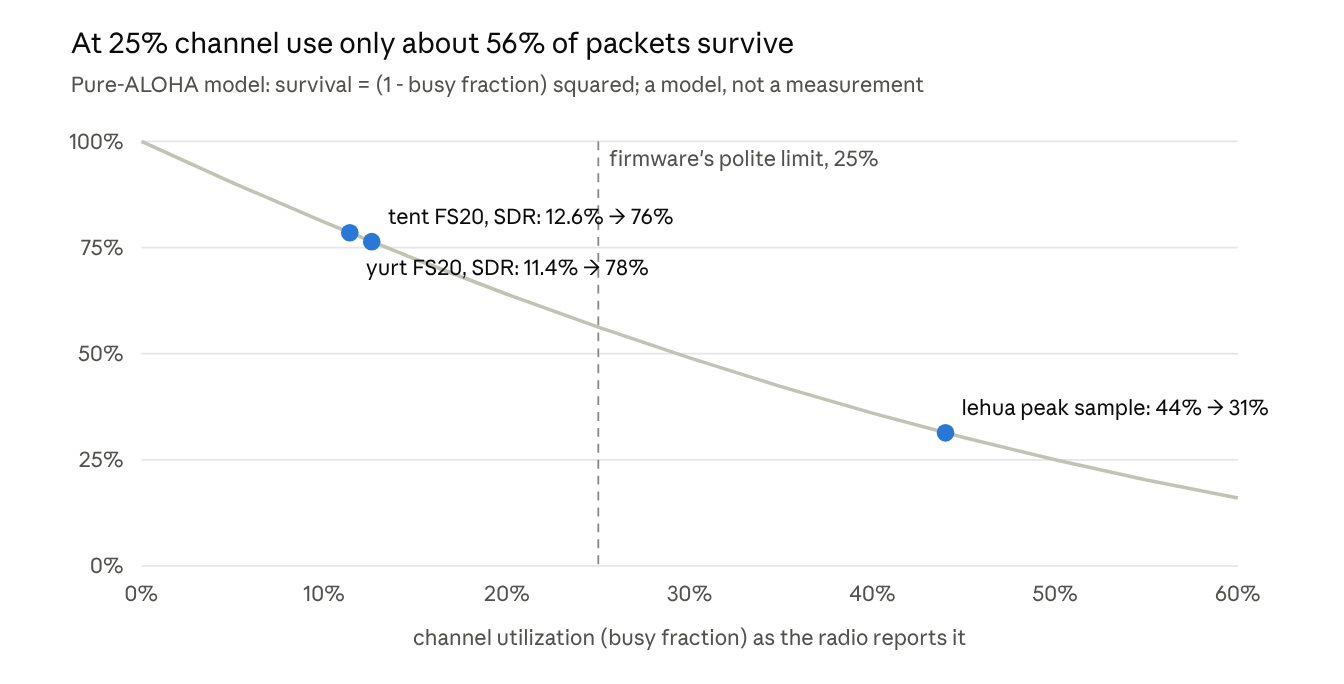
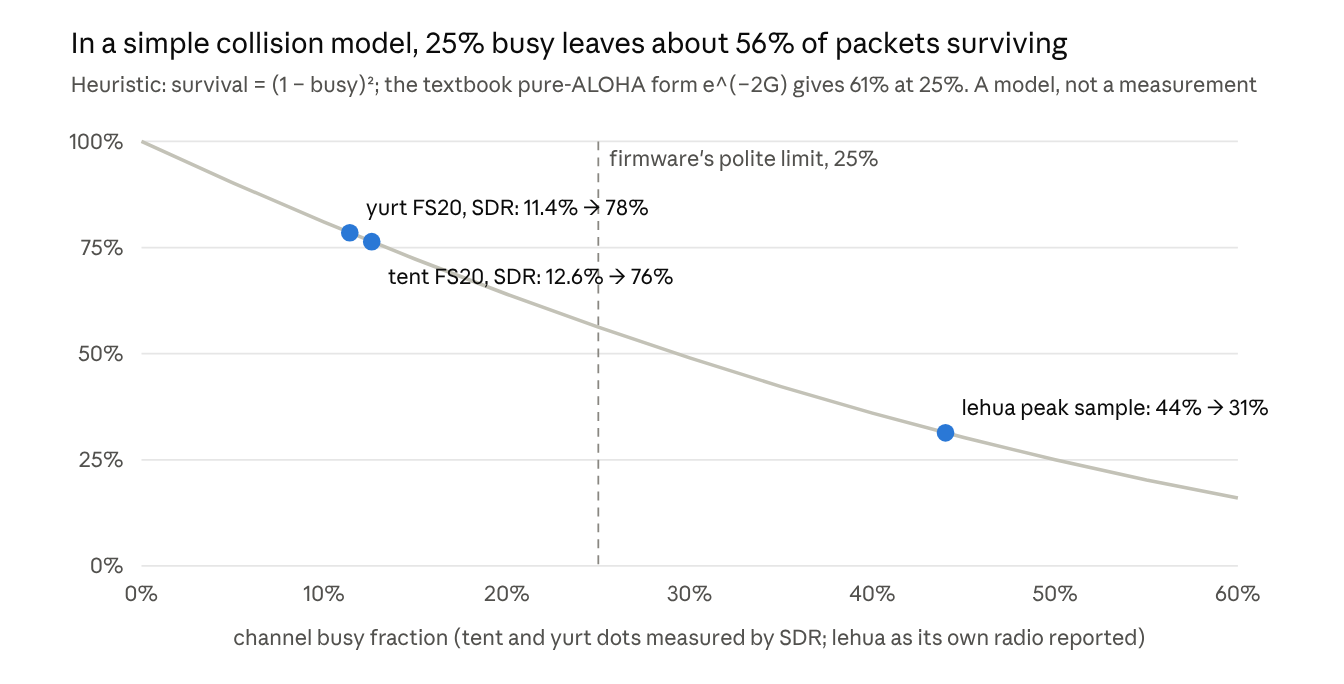
docs(substack): Measuring the Air — honest chart labels, pinned source links
PA chart: "received level at one SDR, not calibrated radiated power",
with which run each point came from. Knee chart: the curve is labelled a
heuristic (e^(-2G) gives 61% at 25%), the x-axis says which dots the SDR
measured, and the tent/yurt labels now sit next to their own dots. Every
GitHub source link is pinned to a commit (each path verified at that
commit; the meshtoad "over-drawing the USB port" and airtime.h
"snapshot" quotes confirmed present).

Claude-Session: https://claude.ai/code/session_01Ukp8mY6RGG5bVQ6PSSXGSq

diff --git a/docs/substack/2026-10-03-measuring-the-air.md b/docs/substack/2026-10-03-measuring-the-air.md
@@ -74,7 +74,7 @@ One difference matters for a crowded rack. Meshtastic's channel check detects on
 
 Meshtastic's firmware draws a line at 25% of airtime: above it, a node stops sending its polite periodic broadcasts. A simple collision model shows why a quarter is a sensible place for that line.
 
-![At 25% channel use only about 56% of packets survive — pure-ALOHA model, survival = (1 − busy fraction)², with the site's measured points: tent FS20 12.6% → 76%, yurt FS20 11.4% → 78%, lehua peak sample 44% → 31%](img/2026-10-03-aloha-knee.png)
+![In a simple collision model, 25% busy leaves about 56% of packets surviving. Heuristic survival = (1 − busy)², a model not a measurement (textbook e^(−2G) gives 61% at 25%). Dots: yurt FS20 11.4% → 78% and tent FS20 12.6% → 76% (SDR-measured), lehua peak sample 44% → 31% (as its radio reported)](img/2026-10-03-aloha-knee.png)
 
 The curve is a simple heuristic in the spirit of pure ALOHA, where nobody coordinates: a packet survives if the channel is free when it starts and stays free for one packet time, so survival is (1 − busy)². The textbook Poisson form, e^(−2G), gives 61% rather than 56% at 25%; either way survival falls steadily with load, and pure ALOHA's throughput peaks at 18.4% of capacity ([ALOHA](https://platform.commit.tu-berlin.de/en/book/telecom/chapter/ch19/section/s04)). LoRa is kinder than pure ALOHA because radios listen first and the capture effect saves the stronger packet. It is harsher when nodes cannot hear each other, as between our yurt and tent. Studies of LoRa at scale reach the same conclusion: success falls exponentially as nodes are added on one spreading factor ([Georgiou and Raza](https://ar5iv.arxiv.org/html/1610.04793), [Adelantado et al.](https://arxiv.org/pdf/1607.08011)).
 
@@ -88,11 +88,11 @@ We cut every Meshtastic radio on site from 30 to 17 dBm except two controls (leh
 
 The first readings said nothing changed. Signal-to-noise between our own radios moved a quarter of a dB (one reporting step); channel load rose on the control box we never touched (time of day). Rather than call that "no effect", we went to direct physics: an SDR in the same tent, listening while one radio stepped through its settings and sent marked test packets we could pick out by their exact airtime.
 
-![Radiated power is flat from 12 to 30 dBm; 7 dBm cuts it about 11 dB — VolcanoAI's HAT, change vs setting 17 at a nearby SDR: set 30 (chip 22) +0.4 dB, set 17 0 dB, set 12 −1.5 dB, set 7 −11.4 dB, against a dashed line showing a linear amplifier](img/2026-10-03-pa-transfer.png)
+![Received level barely moves from setting 12 to 30; setting 7 cuts it about 11 dB. VolcanoAI HAT at one nearby SDR, relative to setting 17, not calibrated radiated power: set 30 (chip 22) +0.4 dB (run 2, within 0.3 dB), set 17 0 dB, set 12 −1.5 dB and set 7 −11.4 dB (run 3, about ±2 dB), against a dashed line showing a linear amplifier](img/2026-10-03-pa-transfer.png)
 
 The chip itself caps at 22 dBm, so a setting of 30 drives it at 22. Above a setting of about 12 the received level stops following the setting; only at 7 does it fall, by about 11 dB. These are relative levels at one SDR position, not calibrated radiated power. The 30 point comes from a run that repeated within 0.3 dB; the 12 and 7 points come from a later run whose reference drifted 1.8 dB, so read them as about ±2 dB. One honest failure on the way: our first run set the SDR's gain too high and measured the receiver's own ceiling, not the transmitter. A gain sweep found the headroom and the rerun is what you see here.
 
-This contradicts the published data, and we have not resolved it. Bench measurements of the EBYTE E22-900M30S module show a nearly linear amplifier, about 7 to 11 dB of gain, all the way to 20-22 dBm of drive ([S5NC bench test](https://github.com/S5NC/EBYTE_ESP32-S3/blob/main/E22-900M30S%20power%20output%20testing.txt), [EBYTE data via ndoo.sg](https://ndoo.sg/projects:amateur_radio:meshtastic:components?rev=1729513582)). The module draws about 650 mA when transmitting and wants more than 5 V for best performance ([EBYTE manual](https://voltiq.ru/datasheets/ebyte/E22-900M30S-user-manual.pdf)). Our radio hangs off a USB port. A current- or voltage-limited supply would flatten the curve long before the amplifier saturates on its own. That is our hypothesis, not a finding; the test is the same step with the radio on a powered hub. Until then, the curve above describes this installation, not the module.
+This contradicts the published data, and we have not resolved it. Bench measurements of the EBYTE E22-900M30S module show a nearly linear amplifier, about 7 to 11 dB of gain, all the way to 20-22 dBm of drive ([S5NC bench test](https://github.com/S5NC/EBYTE_ESP32-S3/blob/e53961d2b8bd133f0ded5b5f001bb938f5c36e85/E22-900M30S%20power%20output%20testing.txt), [EBYTE data via ndoo.sg](https://ndoo.sg/projects:amateur_radio:meshtastic:components?rev=1729513582)). The module draws about 650 mA when transmitting and wants more than 5 V for best performance ([EBYTE manual](https://voltiq.ru/datasheets/ebyte/E22-900M30S-user-manual.pdf)). Our radio hangs off a USB port. A current- or voltage-limited supply would flatten the curve long before the amplifier saturates on its own. That is our hypothesis, not a finding; the test is the same step with the radio on a powered hub. Until then, the curve above describes this installation, not the module.
 
 The question we set out to answer then answered itself: at 7 dBm, the worst path on site (VolcanoAI in the tent to lehua in the far corner of the yurt) still went out direct on both traceroutes. One reply came back direct, the other through one relay.
 
@@ -150,13 +150,13 @@ The literature backs every mechanism we propose; it disagrees with two of our nu
 | An RNode's -71 dBm "interference" was not in the air | RNode firmware: the flag is the chip's own RSSI against a learned floor; it re-learns only below -83 dBm, so a steady -71 never triggers a re-learn | Agree: the firmware explains why the flag recurs, not why it sometimes drops for minutes |
 | Rack neighbours near the input limit (estimated); the one measured radio changed about 0.4 dB from 30 to 17 | E22 module: +10 dBm maximum input before damage risk. SX1262: 88 dB blocking at 1 MHz. Different spreading factors are not fully orthogonal | Consistent with the specs; no co-location study found |
 
-**The amplifier.** The cause has strong support. EBYTE's manual says "the lower the voltage is, the lower the transmitting power is" ([manual](https://voltiq.ru/datasheets/ebyte/E22-900M30S-user-manual.pdf)), and the config file our own radio loads tells users to cap it "to avoid over-drawing the USB port" ([lora-usb-meshtoad-e22.yaml](https://github.com/meshtastic/firmware/blob/master/bin/config.d/lora-usb-meshtoad-e22.yaml)). The shape does not match: a comparable USB module's maker publishes roughly +4 dB for the same 17-to-22 dBm drive step ([uMesh](https://github.com/linser233/uMesh/blob/main/RF_Power.md)), and a Heltec V4 measured with a spectrum analyser flattened near +27-28 dBm ([MeshCore #1708](https://github.com/meshcore-dev/MeshCore/issues/1708)). Our +0.4 dB is flatter than either. A failing part stays on the list beside the supply.
+**The amplifier.** The cause has strong support. EBYTE's manual says "the lower the voltage is, the lower the transmitting power is" ([manual](https://voltiq.ru/datasheets/ebyte/E22-900M30S-user-manual.pdf)), and the config file our own radio loads tells users to cap it "to avoid over-drawing the USB port" ([lora-usb-meshtoad-e22.yaml](https://github.com/meshtastic/firmware/blob/727d8c31dcd2a8e577b672bc5da394a88751bee5/bin/config.d/lora-usb-meshtoad-e22.yaml)). The shape does not match: a comparable USB module's maker publishes roughly +4 dB for the same 17-to-22 dBm drive step ([uMesh](https://github.com/linser233/uMesh/blob/74a56080d226e4a8525b6072a04fbb63c2bb47cf/RF_Power.md)), and a Heltec V4 measured with a spectrum analyser flattened near +27-28 dBm ([MeshCore #1708](https://github.com/meshcore-dev/MeshCore/issues/1708)). Our +0.4 dB is flatter than either. A failing part stays on the list beside the supply.
 
 **The SNR ceiling.** Semtech and a gateway vendor agree that packet SNR is a demodulator figure, not "signal above the noise", and that it stops rising ([Semtech FAQ](https://semtech.com/design-support/faq/faq-lora), [MultiTech](https://www.multitech.net/developer/?p=18209)). The 2026 bench study puts LongFast's ceiling at 8-11 dB ([Hernandez Ortiz et al.](https://arxiv.org/html/2605.17063)). Ours sits lower; a noisier rack is a plausible reason we have not tested.
 
-**The knee.** The firmware's own comment calls the 60-second figure a snapshot ([airtime.h](https://github.com/meshtastic/firmware/blob/master/src/airtime.h)), and Meshtastic tells router operators to stop above 25% ([ROUTER_LATE](https://meshtastic.org/blog/demystifying-router-late/)). Its case that managed flooding scales past 100 nodes rests on simulation ([managed flood](https://meshtastic.org/blog/why-meshtastic-uses-managed-flood-routing/)). We found no published field measurement of time spent over the gate, though that is a statement about our search, not about the field.
+**The knee.** The firmware's own comment calls the 60-second figure a snapshot ([airtime.h](https://github.com/meshtastic/firmware/blob/727d8c31dcd2a8e577b672bc5da394a88751bee5/src/airtime.h)), and Meshtastic tells router operators to stop above 25% ([ROUTER_LATE](https://meshtastic.org/blog/demystifying-router-late/)). Its case that managed flooding scales past 100 nodes rests on simulation ([managed flood](https://meshtastic.org/blog/why-meshtastic-uses-managed-flood-routing/)). We found no published field measurement of time spent over the gate, though that is a statement about our search, not about the field.
 
-**The false interference.** The RNode firmware explains our result rather than merely permitting it: its recalibration only fires for assertions below -83 dBm, so a steady -71 dBm keeps re-asserting; that explains why the flag recurs, though not why it sometimes drops for minutes ([RNode_Firmware.ino](https://github.com/markqvist/RNode_Firmware/blob/master/RNode_Firmware.ino)). We found no report of the same on a Heltec V3, and no primary source on USB-borne self-noise.
+**The false interference.** The RNode firmware explains our result rather than merely permitting it: its recalibration only fires for assertions below -83 dBm, so a steady -71 dBm keeps re-asserting; that explains why the flag recurs, though not why it sometimes drops for minutes ([RNode_Firmware.ino](https://github.com/markqvist/RNode_Firmware/blob/56775c51b60a6190242e324c210997dcc7637e53/RNode_Firmware.ino)). We found no report of the same on a Heltec V3, and no primary source on USB-borne self-noise.
 
 **Scale.** Classic LoRa capacity work finds success falling exponentially as nodes share a spreading factor ([Georgiou and Raza](https://ar5iv.labs.arxiv.org/html/1610.04793)), and inter-SF interference costs a further 10% or so at scale ([Mahmood et al.](https://arxiv.org/abs/1808.01761)). Those studies assume nodes spread over kilometres, not three feet apart on a shelf.
 
@@ -169,7 +169,7 @@ The literature backs every mechanism we propose; it disagrees with two of our nu
 - [Semtech LoRa FAQ](https://www.semtech.com/design-support/faq/faq-lora): SNR above +5 dB, RSSI saturation
 - [Hernandez Ortiz et al., 2026](https://arxiv.org/pdf/2605.17063): SX1262 Meshtastic presets on a guided link, SNR ceilings
 - [Croce et al., IEEE Commun. Lett. 2018](https://iris.unipa.it/retrieve/handle/10447/301652/1028841/08267219.pdf): capture and inter-SF interference
-- [RadioLib SX126x time-on-air implementation](https://github.com/jgromes/RadioLib/blob/master/src/modules/SX126x/SX126x.cpp)
+- [RadioLib SX126x time-on-air implementation, commit 02f0afaa](https://github.com/jgromes/RadioLib/blob/02f0afaaa32de07874e2954dd929e8c08356e24f/src/modules/SX126x/SX126x.cpp)
 
 **Capacity**
 
@@ -186,7 +186,7 @@ The literature backs every mechanism we propose; it disagrees with two of our nu
 **Hardware**
 
 - [EBYTE E22-900M30S manual](https://voltiq.ru/datasheets/ebyte/E22-900M30S-user-manual.pdf)
-- [S5NC E22-900M30S output test](https://github.com/S5NC/EBYTE_ESP32-S3/blob/main/E22-900M30S%20power%20output%20testing.txt)
+- [S5NC E22-900M30S output test, commit e53961d2](https://github.com/S5NC/EBYTE_ESP32-S3/blob/e53961d2b8bd133f0ded5b5f001bb938f5c36e85/E22-900M30S%20power%20output%20testing.txt)
 - [RNode firmware, commit 56775c51](https://github.com/markqvist/RNode_Firmware/blob/56775c51b60a6190242e324c210997dcc7637e53/RNode_Firmware.ino)
 
 **Transports**
@@ -197,11 +197,11 @@ The literature backs every mechanism we propose; it disagrees with two of our nu
 
 **Cited in the comparison**
 
-- [Meshtastic lora-usb-meshtoad-e22.yaml](https://github.com/meshtastic/firmware/blob/master/bin/config.d/lora-usb-meshtoad-e22.yaml)
-- [Meshtastic airtime.h](https://github.com/meshtastic/firmware/blob/master/src/airtime.h)
+- [Meshtastic lora-usb-meshtoad-e22.yaml, commit 727d8c31](https://github.com/meshtastic/firmware/blob/727d8c31dcd2a8e577b672bc5da394a88751bee5/bin/config.d/lora-usb-meshtoad-e22.yaml)
+- [Meshtastic airtime.h, commit 727d8c31](https://github.com/meshtastic/firmware/blob/727d8c31dcd2a8e577b672bc5da394a88751bee5/src/airtime.h)
 - [Meshtastic: Demystifying ROUTER_LATE](https://meshtastic.org/blog/demystifying-router-late/)
 - [Meshtastic: Why managed flood routing](https://meshtastic.org/blog/why-meshtastic-uses-managed-flood-routing/)
-- [uMesh RF power measurements](https://github.com/linser233/uMesh/blob/main/RF_Power.md)
+- [uMesh RF power measurements, commit 74a56080](https://github.com/linser233/uMesh/blob/74a56080d226e4a8525b6072a04fbb63c2bb47cf/RF_Power.md)
 - [MeshCore issue #1708, Heltec V4 output](https://github.com/meshcore-dev/MeshCore/issues/1708)
 - [MultiTech, LoRa SNR and RSSI](https://www.multitech.net/developer/?p=18209)
 
